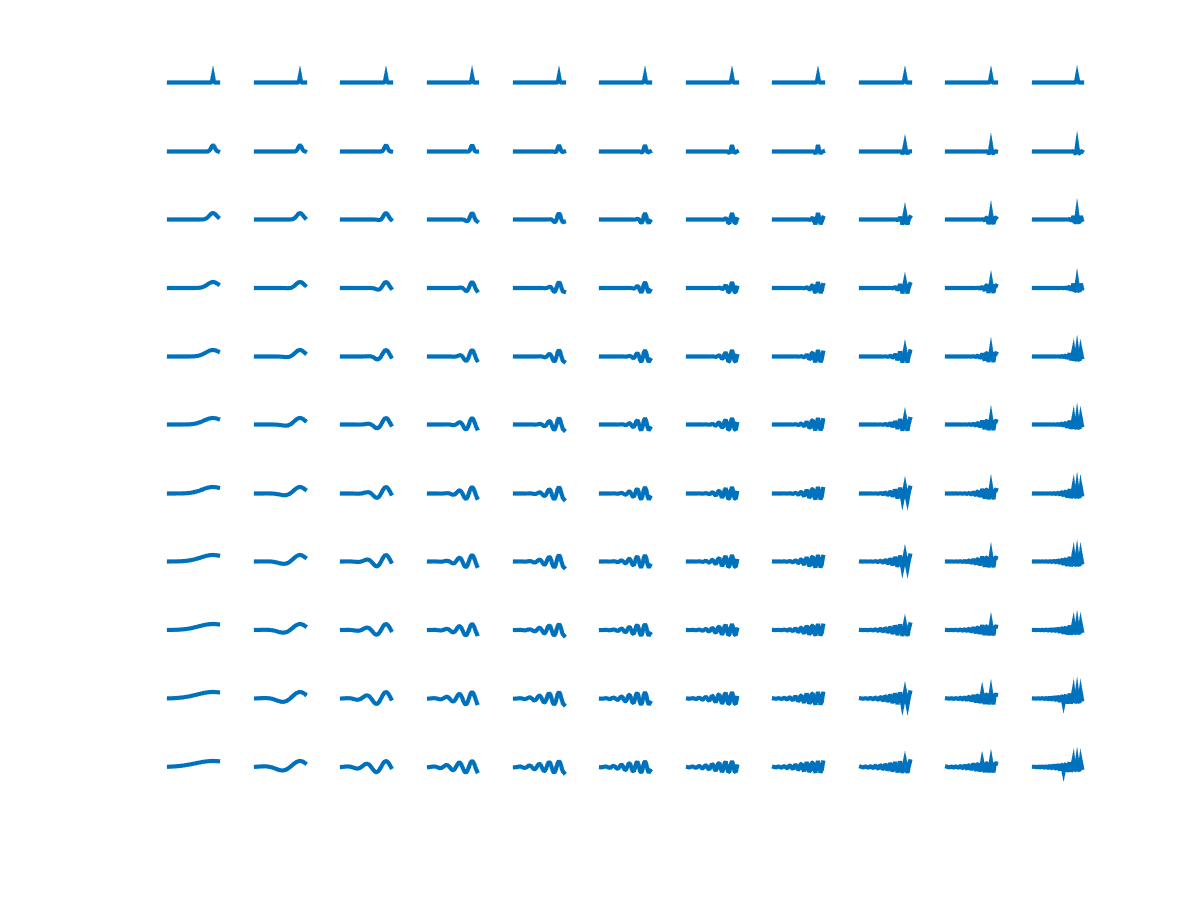
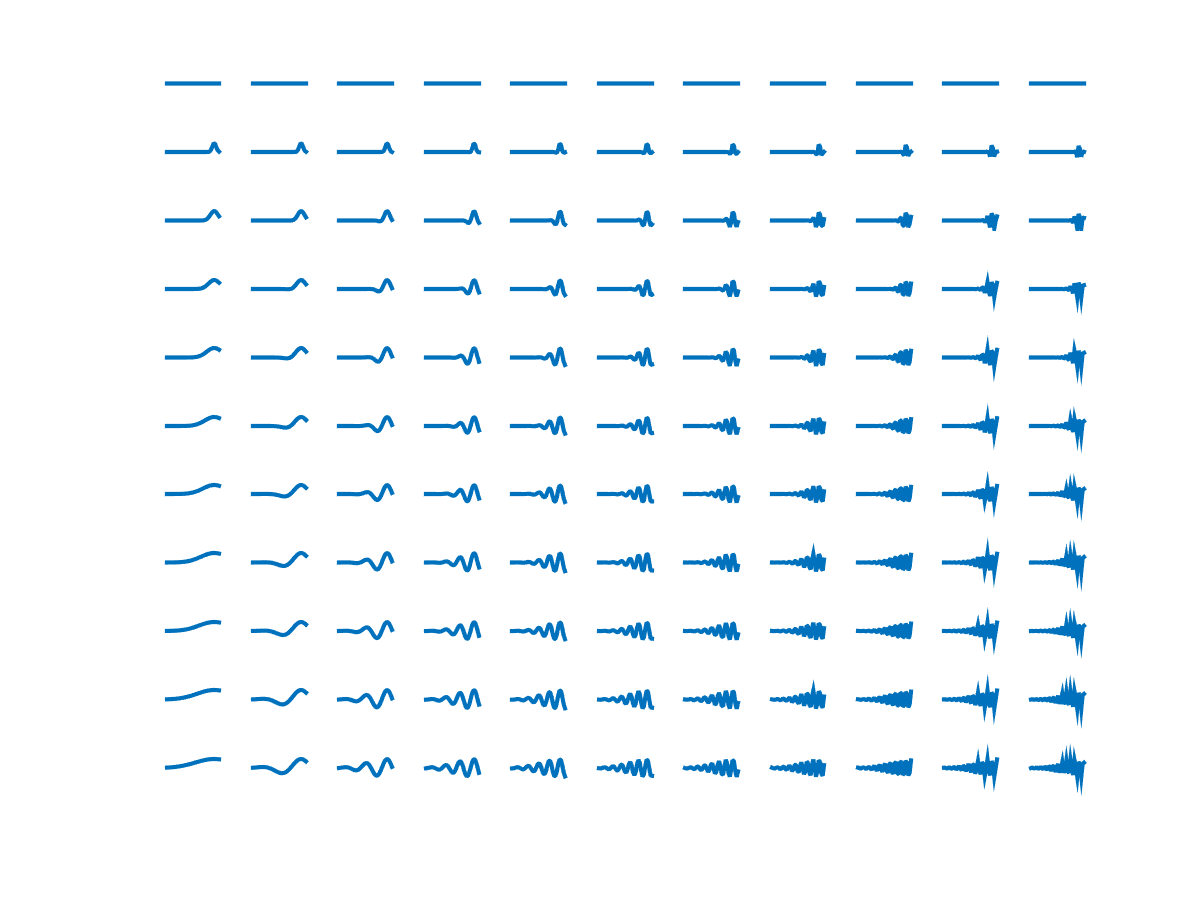
setup simulation R1R4Iter10_delay3_6_fixSTAwidth

diff --git a/functions/sigmFitParam.m b/functions/sigmFitParam.m
@@ -11,16 +11,18 @@ function [q ] = sigmFitParam( x,y )
     opts.RobustWgtFun = 'bisquare';
     beta0 = [0.5;0.5;10;1];
 
-    try
+    trheshold = 0.75;
+    lastQ = 40;
+%     try
         beta = nlinfit(x,y,modelfun,beta0,opts);
 %         beta
         syms xs 
-        xa = eval(solve(modelfun(beta,xs) == 0.7));
+        xa = eval(solve(modelfun(beta,xs) == trheshold));
 
 %         if isreal( modelfun(beta,xa)  ) == 1 && xa <=30 && xa> 0 ;
-        if isreal( modelfun(beta,xa)  ) == 1 && xa <=40 && xa> 0 ;
+        if isreal( modelfun(beta,xa)  ) == 1 && xa <=lastQ && xa> 0 ;
             q = xa;
-        elseif ~any(modelfun(beta,x) <=0.7)
+        elseif ~any(modelfun(beta,x) <=trheshold)
             q = x(1);
         else
             q = nan;
@@ -28,13 +30,13 @@ function [q ] = sigmFitParam( x,y )
 
         hold on 
         plot(x,modelfun(beta,x),'k--','LineWidth',1)
-        plot([0,50],[0.75,0.75],':k','LineWidth',1)
+        plot([0,lastQ],[trheshold,trheshold],':k','LineWidth',1)
         if ~isnan(q)
             plot([q,q],[0.4,1],':k','LineWidth',1)
         end
-    catch
-       q = nan;
-    end
+%     catch
+%        q = nan;
+%     end
 
 end
 

diff --git a/scripts/run_Figure3.m b/scripts/run_Figure3.m
@@ -17,8 +17,8 @@ addpathFolderStructure()
 w = warning ('off','all');
 
 %% 
-% parameterSetName    = 'R3R4withExpFilterIter5';
-parameterSetName    = 'R1toR4Iter10_delay4';
+parameterSetName    = 'R3R4withExpFilterIter5';
+% parameterSetName    = 'R1toR4Iter10_delay4';
 load(['data' filesep 'parameterSet_', parameterSetName ])
 
 figMatch = find(~cellfun('isempty', strfind({varParCombinationsAll.resultName} , 'R3' )));
@@ -102,10 +102,11 @@ for j = 1:n_y
         plot( STAt,STAfunc(STAt))
         axis([-39,0,-1,1])
         axis off
+        grid on 
     end
 end
 
-saveas(fig3STA,['figs' filesep 'Figure3STA_' parameterSetName '.png'])
+% saveas(fig3STA,['figs' filesep 'Figure3STA_' parameterSetName '.png'])
 
 %% Heatmap & Mask 
 figure(1)

diff --git a/functions/createNeuralFilt.m b/functions/createNeuralFilt.m
@@ -4,6 +4,11 @@ function [ STAFunc,NLDFunc] = createNeuralFilt( fixPar,varPar )
 
     STAFunc = @(t) cos( varPar.STAfreq*(t+ fixPar.STAdelay)  ).*exp(-(t+fixPar.STAdelay).^2 / varPar.STAwidth.^2);
 
+    STAt = -39:0;   
+    if (varPar.STAwidth <=0.2)  && ( max( STAFunc(STAt)) < 0.1) 
+        STAFunc = @(t) cos( varPar.STAfreq*(t+ fixPar.STAdelay)  ).*exp(-(t+fixPar.STAdelay).^2 / varPar.STAwidth.^2) /  max(STAFunc(STAt));
+     end 
+    
     if (varPar.NLDgrad <=1) && (varPar.NLDgrad >=0)
         NLDFunc = @(s)  heaviside(0.5*s-varPar.NLDshift+0.5).*(0.5*s-varPar.NLDshift+0.5) ...
            -heaviside(0.5*s-varPar.NLDshift-1+0.5).*(0.5*s-varPar.NLDshift-1+0.5);

diff --git a/scripts/run_paperAnalysis.m b/scripts/run_paperAnalysis.m
@@ -22,9 +22,9 @@ clear all, close all, clc
 addpathFolderStructure()
 
 % parameterSetName    = 'R1toR4Iter10_delay4';
-parameterSetName    = 'R1R2Iter5_delay4_newNormalization';
-iter                = 5;
-figuresToRun        = {'R2A_disturbance'};
+parameterSetName    = 'R1R4Iter10_delay3_6_fixSTAwidth';
+iter                = 10;
+figuresToRun        = {'R1','R2','R3','R4'};
 % select any from {'R2A','R2B','R2C','R3','R4','R2allSensorsnoFilt','R2allSensorsFilt} 
 
 % Build struct that specifies all parameter combinations to run 
